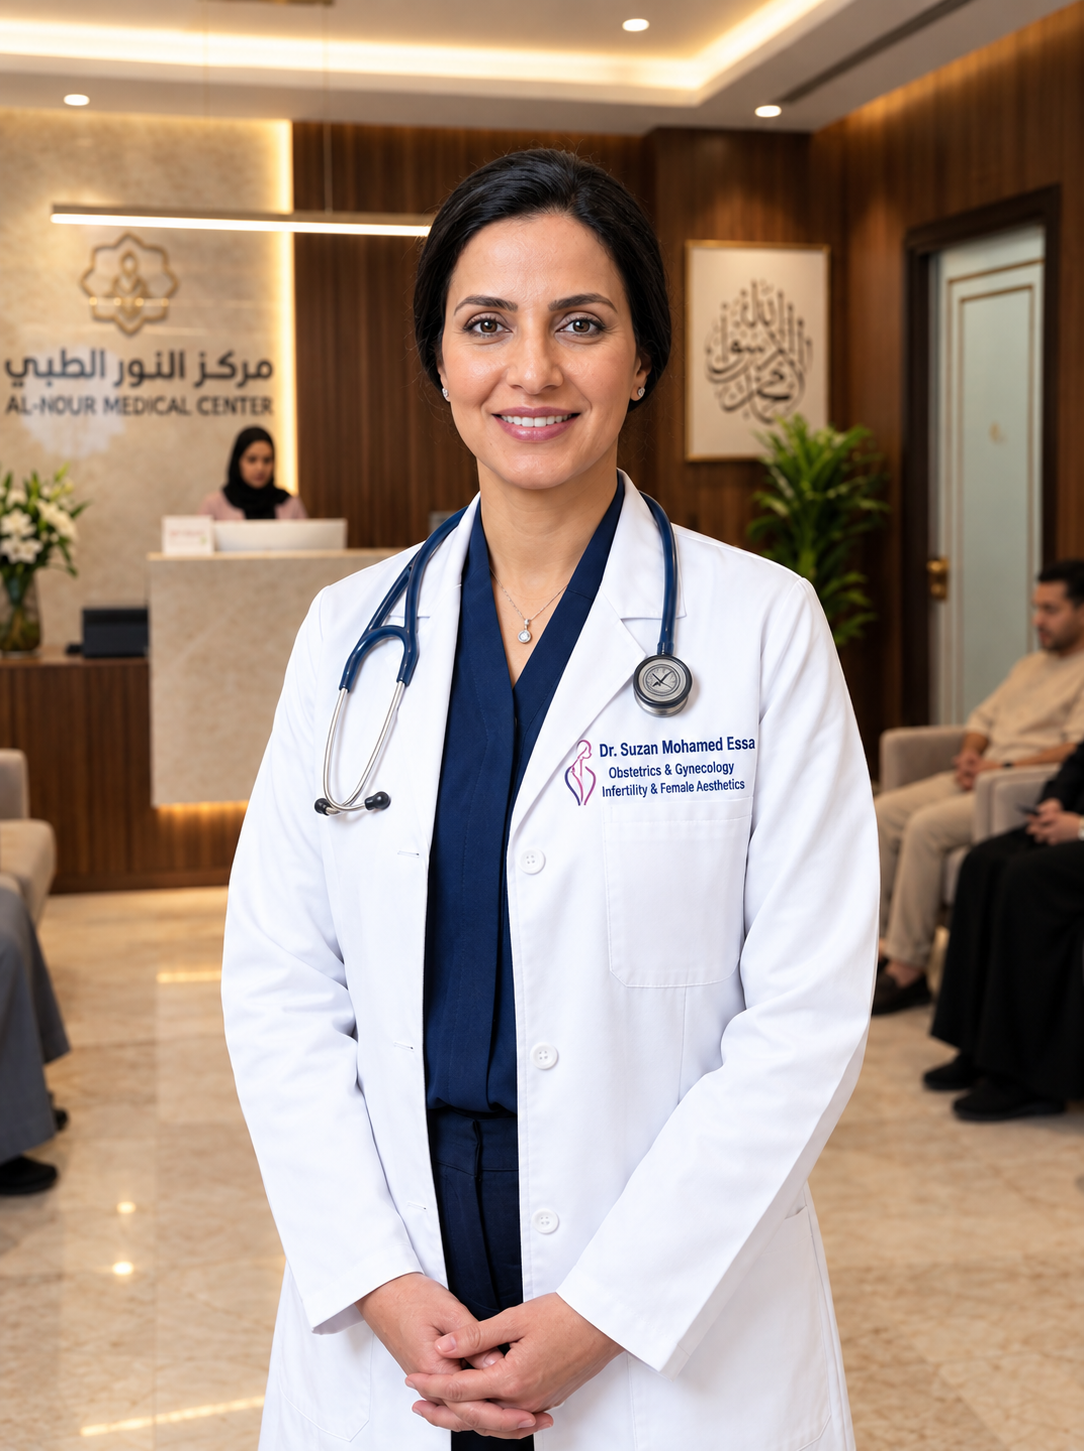
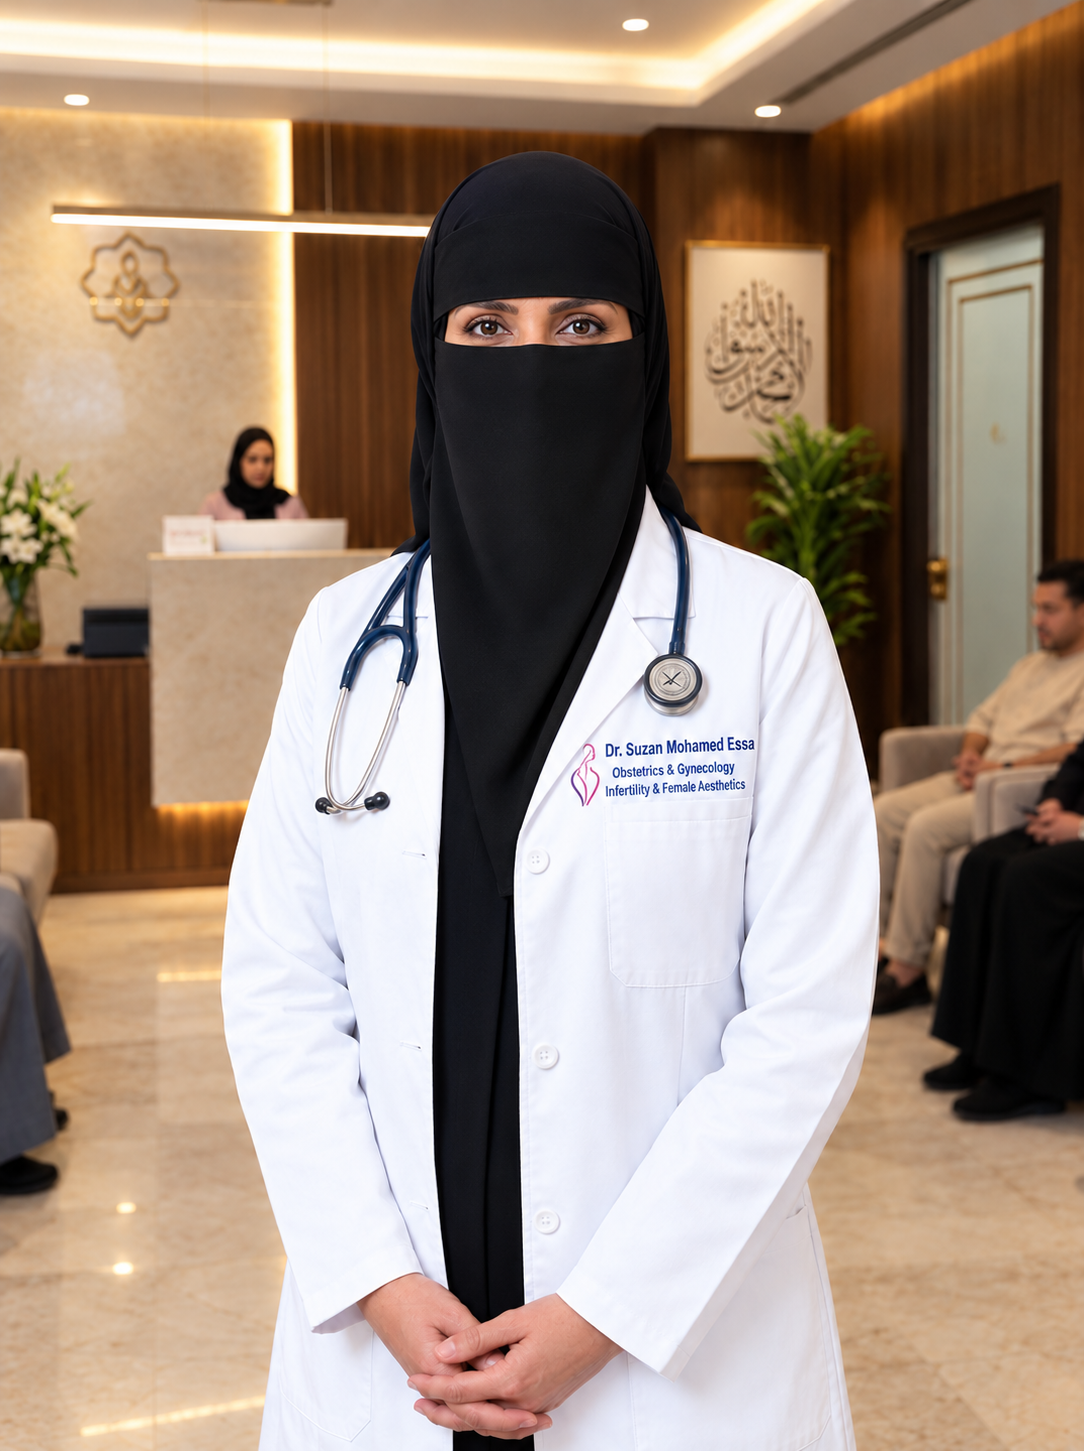
last

diff --git a/index.html b/index.html
@@ -3,7 +3,7 @@
 <head>
   <meta charset="UTF-8">
   <meta name="viewport" content="width=device-width, initial-scale=1.0">
-  <title>دكتورة سوزان محمد عيسى | أخصائية النساء والتوليد والعقم - حفر الباطن</title>
+  <title>دكتورة سوزان محمد عيسى | أخصائية النساء والتوليد والعقم والتجميل النسائي - حفر الباطن</title>
   
   <!-- SEO Meta Tags -->
   <meta name="description" content="عيادة دكتورة سوزان محمد عيسى - خبرة 17 عاماً في طب وجراحة أمراض النساء، متابعة الحمل، علاج تأخر الإنجاب، وسائل منع الحمل، والسونار البطني والداخلي في حفر الباطن. افحصي واطمئني مع دكتورة سوزان.">
@@ -14,7 +14,7 @@
 
   <!-- Open Graph / Social Media -->
   <meta property="og:type" content="website">
-  <meta property="og:title" content="دكتورة سوزان محمد عيسى | أخصائية النساء والتوليد والعقم">
+  <meta property="og:title" content="دكتورة سوزان محمد عيسى | أخصائية النساء والتوليد والعقم والتجميل النسائي">
   <meta property="og:description" content="عيادة متخصصة في حفر الباطن. خبرة 17 عاماً في رعاية المرأة، متابعة الحمل، علاج العقم، وتنظيم الأسرة. التواصل عبر واتساب.">
   <meta property="og:image" content="css/dr-suzan-profile.png">
   <meta property="og:locale" content="ar_SA">
@@ -376,7 +376,7 @@
     .hero-dark-overlay {
       position: absolute;
       inset: 0;
-      background: linear-gradient(180deg, rgba(17, 51, 54, 0.52) 0%, rgba(17, 51, 54, 0.42) 50%, rgba(17, 51, 54, 0.68) 100%);
+      background: linear-gradient(180deg, rgba(17, 51, 54, 0.80) 0%, rgba(17, 51, 54, 0.74) 50%, rgba(17, 51, 54, 0.92) 100%);
       z-index: 1;
     }
     /* Organic curved frosted backdrop shapes */
@@ -418,6 +418,7 @@
       display: inline-block;
     }
     .hero-lead-text {
+      white-space: pre-line;
       font-size: clamp(1.05rem, 1.8vw, 1.3rem);
       color: rgba(255, 255, 255, 0.92);
       max-width: 760px;
@@ -1547,25 +1548,40 @@
     }
   
     /* Hero: name + specialty */
-    #sec-hero .hero-h1 { margin-bottom: 16px; }
+    /* Name + specialty share one column so the specialty sits exactly under the name */
+    .hero-identity {
+      display: flex;
+      flex-direction: column;
+      align-items: center;
+      width: fit-content;
+      max-width: 100%;
+      margin: 0 auto 22px;
+      transform: translateX(14px); /* nudge slightly to the right */
+    }
+    #sec-hero .hero-h1 { margin-bottom: 14px; white-space: nowrap; }
     .hero-specialty {
       display: inline-flex;
       align-items: center;
-      gap: 10px;
-      padding: 8px 26px;
-      margin-bottom: 22px;
+      gap: 8px;
+      padding: 7px 20px;
+      margin-bottom: 0;
       background: rgba(255, 255, 255, 0.12);
       backdrop-filter: blur(10px);
       -webkit-backdrop-filter: blur(10px);
       border: 1px solid rgba(255, 255, 255, 0.25);
-      border-radius: 50px;
-      font-size: clamp(1.05rem, 2vw, 1.5rem);
+      border-radius: 32px;
+      white-space: nowrap;
+      text-align: center;
+      line-height: 1.6;
+      font-size: clamp(0.62rem, 3.1vw, 1.05rem);
       font-weight: 800;
       color: #F0D9A0;
       box-shadow: 0 4px 20px rgba(0, 0, 0, 0.15);
     }
     @media (max-width: 480px) {
-      .hero-specialty { padding: 8px 18px; text-align: center; }
+      .hero-specialty { padding: 6px 12px; gap: 6px; text-align: center; }
+      .hero-identity { transform: translateX(8px); }
+      #sec-hero .hero-h1 { font-size: clamp(1.45rem, 7.2vw, 2rem); }
     }
   
     /* ===== Unified palette + white background overrides ===== */
@@ -1634,7 +1650,7 @@
         </div>
         <div>
           <div class="brand-title" data-i18n="brand-name">دكتورة سوزان محمد عيسى</div>
-          <div class="brand-subtitle" data-i18n="brand-spec">أخصائية النساء والتوليد والعقم</div>
+          <div class="brand-subtitle" data-i18n="brand-spec">أخصائية النساء والتوليد والعقم والتجميل النسائي</div>
         </div>
       </a>
 
@@ -1696,17 +1712,20 @@
     <div class="hero-organic-blob-2"></div>
 
     <div class="container hero-container">
-      <h1 class="hero-h1">
-        <span data-i18n="hero-name">دكتورة سوزان محمد عيسى</span>
-      </h1>
+      <div class="hero-identity">
+        <h1 class="hero-h1">
+          <span data-i18n="hero-name">دكتورة سوزان محمد عيسى</span>
+        </h1>
 
-      <div class="hero-specialty">
-        <i class="bi bi-heart-pulse-fill"></i>
-        <span data-i18n="hero-specialty">أخصائية النساء والتوليد والعقم</span>
+        <div class="hero-specialty">
+          <i class="bi bi-heart-pulse-fill"></i>
+          <span class="hero-specialty-text" data-i18n="hero-specialty">أخصائية النساء والتوليد والعقم والتجميل النسائي</span>
+        </div>
       </div>
 
       <p class="hero-lead-text" data-i18n="hero-lead">
         عناية متكاملة بصحة المرأة وجمالها
+التجميل النسائي وكل ما يمنحك الشباب والثقة
       </p>
 
       <div class="hero-btn-group">
@@ -1839,7 +1858,7 @@
         <!-- Left Column (Framed Doctor Photo & Floating Stat) -->
         <div class="col-lg-5">
           <div class="about-img-wrapper">
-            <img src="css/dr-suzan-profile.png" alt="دكتورة سوزان محمد عيسى - أخصائية النساء والتوليد والعقم" class="about-framed-photo">
+            <img src="css/dr-suzan-profile.png" alt="دكتورة سوزان محمد عيسى - أخصائية النساء والتوليد والعقم والتجميل النسائي" class="about-framed-photo">
             
             <div class="about-floating-stat">
               <div class="about-floating-number">+17</div>
@@ -1965,6 +1984,21 @@
             <h4 class="dept-card-title" data-i18n="dept-8-title">سن انقطاع الطمث</h4>
             <p class="dept-card-text" data-i18n="dept-8-desc">
               التعامل مع أعراض انقطاع الطمث والهبات الساخنة وتقديم العلاج الداعم لتحسين جودة الحياة.
+            </p>
+            <div class="dept-card-watermark"></div>
+          </div>
+        </div>
+
+        <!-- 08: التجميل النسائي -->
+        <div class="col-md-6 col-lg-3">
+          <div class="dept-card">
+            <div class="dept-card-top">
+              <div class="dept-icon-square"><i class="bi bi-stars"></i></div>
+              <span class="dept-card-num">08</span>
+            </div>
+            <h4 class="dept-card-title" data-i18n="dept-9-title">التجميل النسائي</h4>
+            <p class="dept-card-text" data-i18n="dept-9-desc">
+              التجميل النسائي وكل ما يمنحك الشباب والثقة بالنفس، برعاية متخصصة وخصوصية تامة.
             </p>
             <div class="dept-card-watermark"></div>
           </div>
@@ -2322,12 +2356,12 @@
             <div class="accordion-item">
               <h2 class="accordion-header">
                 <button class="accordion-button collapsed" type="button" data-bs-toggle="collapse" data-bs-target="#faq4">
-                  <span data-i18n="faq-q4">هل يتوفر لديكم توليد؟ وكيف يتم حجز المواعيد؟</span>
+                  <span data-i18n="faq-q4">هل يتوفر لديكم خدمة التجميل النسائي؟</span>
                 </button>
               </h2>
               <div id="faq4" class="accordion-collapse collapse" data-bs-parent="#faqAccordion">
                 <div class="accordion-body" data-i18n="faq-a4">
-                  العيادة متخصصة حصرياً في متابعة الحمل، الفحص بالسونار البطني والداخلي، وسائل تنظيم الأسرة، وعلاج اضطرابات أمراض النساء وتأخر الإنجاب، ولا نقوم بإجراء عمليات التوليد. التواصل وحجز المواعيد يتم حصرياً عبر تطبيق واتساب لضمان ترتيب أوقات الزيارة بدقة.
+                  نعم، يتوفر لدينا التجميل النسائي بكل أنواعه، ونحرص على تحسين صحة المنطقة النسائية، ويتوفر لدينا استشارات ومتابعة للحالات الخاصة حسب احتياج كل سيدة.
                 </div>
               </div>
             </div>
@@ -2462,7 +2496,7 @@
             <div class="brand-icon-emblem"><i class="bi bi-heart-pulse-fill"></i></div>
             <div>
               <h5 class="fw-bold text-white mb-0" data-i18n="brand-name">دكتورة سوزان محمد عيسى</h5>
-              <small class="text-danger fw-bold" data-i18n="brand-spec">أخصائية النساء والتوليد والعقم</small>
+              <small class="text-danger fw-bold" data-i18n="brand-spec">أخصائية النساء والتوليد والعقم والتجميل النسائي</small>
             </div>
           </div>
           <p class="small mb-3 text-secondary" data-i18n="foot-desc">
@@ -2711,7 +2745,7 @@
         "topbar-location": "حفر الباطن - حي الربوة",
         "topbar-wa-notice": "التواصل والحجز عبر واتساب فقط",
         "brand-name": "دكتورة سوزان محمد عيسى",
-        "brand-spec": "أخصائية النساء والتوليد والعقم",
+        "brand-spec": "أخصائية النساء والتوليد والعقم والتجميل النسائي",
         "nav-home": "الرئيسية",
         "nav-about": "من نحن",
         "nav-services": "الخدمات",
@@ -2722,8 +2756,8 @@
         "nav-location": "اتصل بنا",
         "nav-book-btn": "احجزي الآن",
         "hero-name": "دكتورة سوزان محمد عيسى",
-        "hero-specialty": "أخصائية النساء والتوليد والعقم",
-        "hero-lead": "عناية متكاملة بصحة المرأة وجمالها",
+        "hero-specialty": "أخصائية النساء والتوليد والعقم والتجميل النسائي",
+        "hero-lead": "عناية متكاملة بصحة المرأة وجمالها\nالتجميل النسائي وكل ما يمنحك الشباب والثقة",
         "hero-btn-book": "احجزي موعداً عبر واتساب",
         "hero-btn-explore": "استكشفي خدماتنا",
         "stat-satisfaction": "رضا المراجعات",
@@ -2733,11 +2767,11 @@
         "art-view-all": "تصفحي المكتبة الطبية الكاملة"
       },
       en: {
-        __title: "Dr. Suzan Mohamed Issa | Gynecology, Obstetrics & Infertility Specialist",
+        __title: "Dr. Suzan Mohamed Issa | Gynecology, Obstetrics, Infertility & Cosmetic Gynecology Specialist",
         "topbar-location": "Hafar Al-Batin - Ar Rabwah",
         "topbar-wa-notice": "Communication & Booking via WhatsApp Only",
         "brand-name": "Dr. Suzan Mohamed Issa",
-        "brand-spec": "Gynecology, Obstetrics & Infertility Specialist",
+        "brand-spec": "Gynecology, Obstetrics, Infertility & Cosmetic Gynecology Specialist",
         "nav-home": "Home",
         "nav-about": "About",
         "nav-services": "Services",
@@ -2748,8 +2782,8 @@
         "nav-location": "Contact",
         "nav-book-btn": "Book Now",
         "hero-name": "Dr. Suzan Mohamed Issa",
-        "hero-specialty": "Specialist in Gynecology, Obstetrics & Infertility",
-        "hero-lead": "Comprehensive care for women's health and beauty",
+        "hero-specialty": "Specialist in Gynecology, Obstetrics, Infertility & Cosmetic Gynecology",
+        "hero-lead": "Comprehensive care for women's health and beauty\nCosmetic gynecology and everything that gives you youth and confidence",
         "hero-btn-book": "Book via WhatsApp",
         "hero-btn-explore": "Explore Our Services",
         "stat-satisfaction": "Patient Satisfaction",
@@ -2790,6 +2824,8 @@
         "dept-7-desc": "Early detection screenings for breast and cervical health (Pap smear) and comprehensive routine checkups.",
         "dept-8-title": "Menopause & Wellness",
         "dept-8-desc": "Managing menopausal symptoms and providing supportive care to elevate quality of life.",
+        "dept-9-title": "Cosmetic Gynecology",
+        "dept-9-desc": "Cosmetic gynecology and everything that gives you youth and confidence, with specialized care and full privacy.",
         "stats-tag": "Our Achievements",
         "stats-subtitle": "Proud of the outcomes and smiles achieved with our valued patients.",
         "stat-ring-1-title": "Patient Satisfaction",
@@ -2875,8 +2911,8 @@
         "faq-a1": "Transvaginal ultrasound gives an extremely clear image and is used to examine the uterus, ovaries and endometrial thickness and to detect ovarian cysts. Abdominal ultrasound is used to monitor fetal growth, movement and placental position in the middle and later stages of pregnancy. Both scans are completely safe and painless.",
         "faq-q3": "How do I choose the right contraceptive method?",
         "faq-a3": "The choice depends on a thorough medical assessment of your health, blood pressure, breastfeeding status and menstrual pattern. Dr. Suzan will examine you and discuss suitable options such as the copper IUD, hormonal IUD or implant to find the most comfortable and safest method for you.",
-        "faq-q4": "Do you offer delivery? How do I book an appointment?",
-        "faq-a4": "The clinic specializes exclusively in pregnancy follow-up, abdominal and transvaginal ultrasound, family planning, and treatment of gynecological disorders and infertility. We do not perform deliveries. Communication and booking are handled exclusively via WhatsApp to schedule visits precisely.",
+        "faq-q4": "Do you offer cosmetic gynecology services?",
+        "faq-a4": "Yes, we offer cosmetic gynecology in all its forms, and we are committed to improving feminine intimate health. We also provide consultations and follow-up for special cases according to each woman's needs.",
         "loc-feature-1": "Easily accessible prime location",
         "loc-feature-1-desc": "Ample, convenient parking for all patients.",
         "loc-feature-2": "Communication & Appointments",
